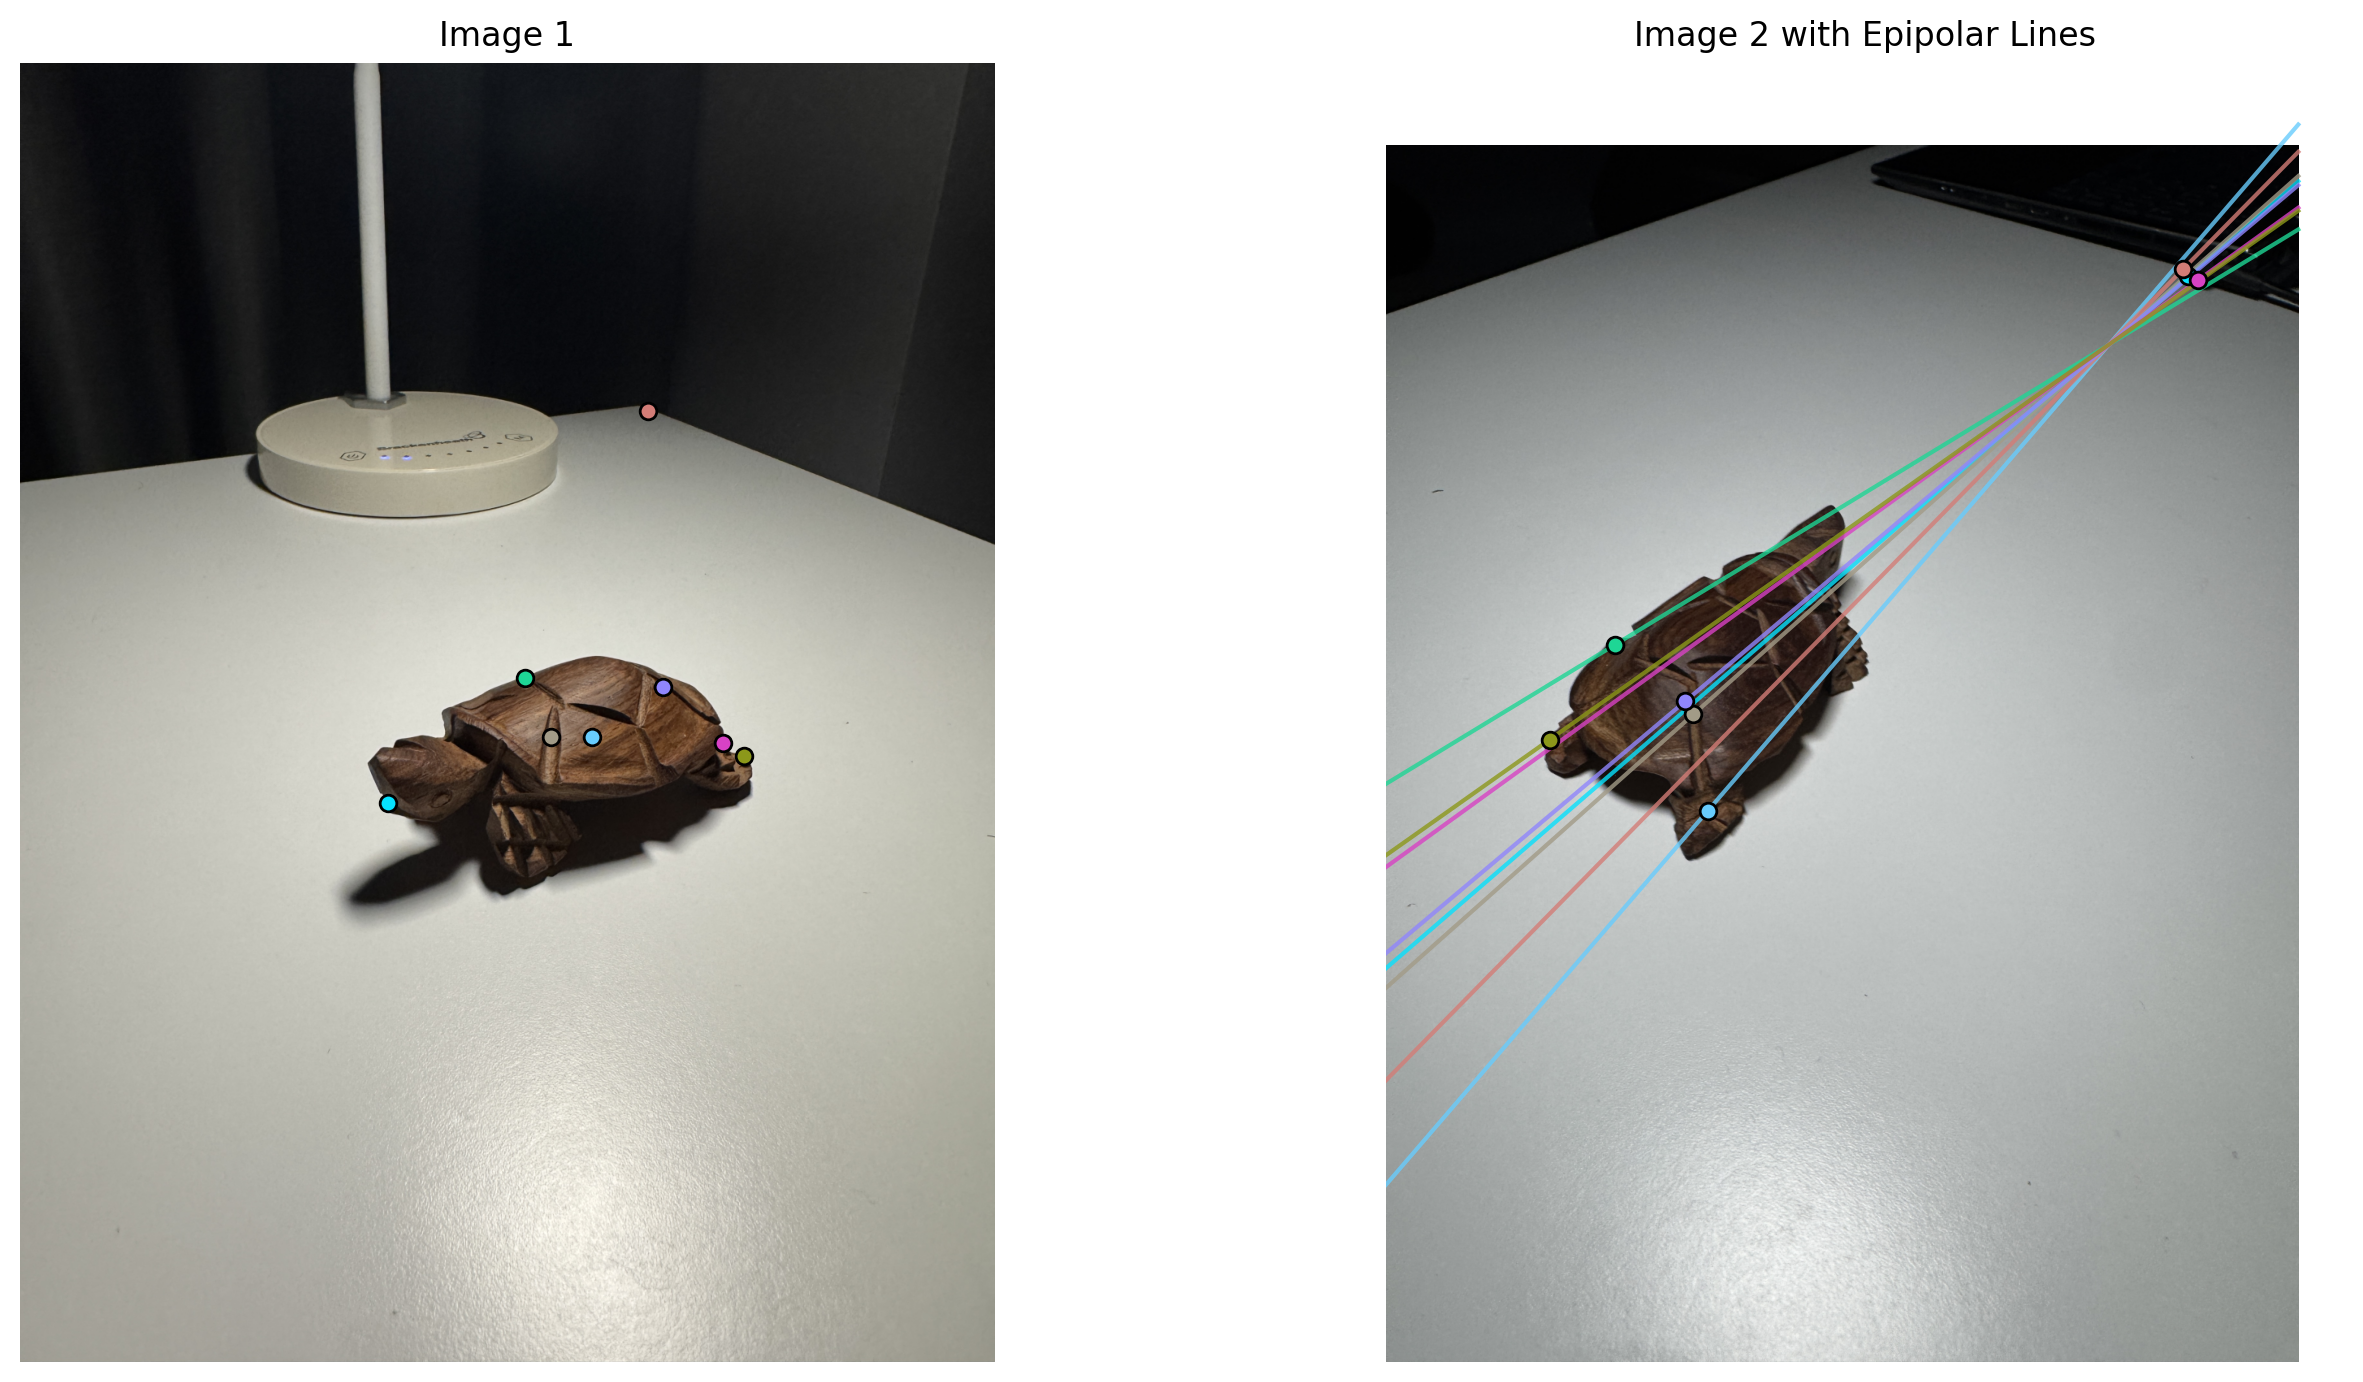
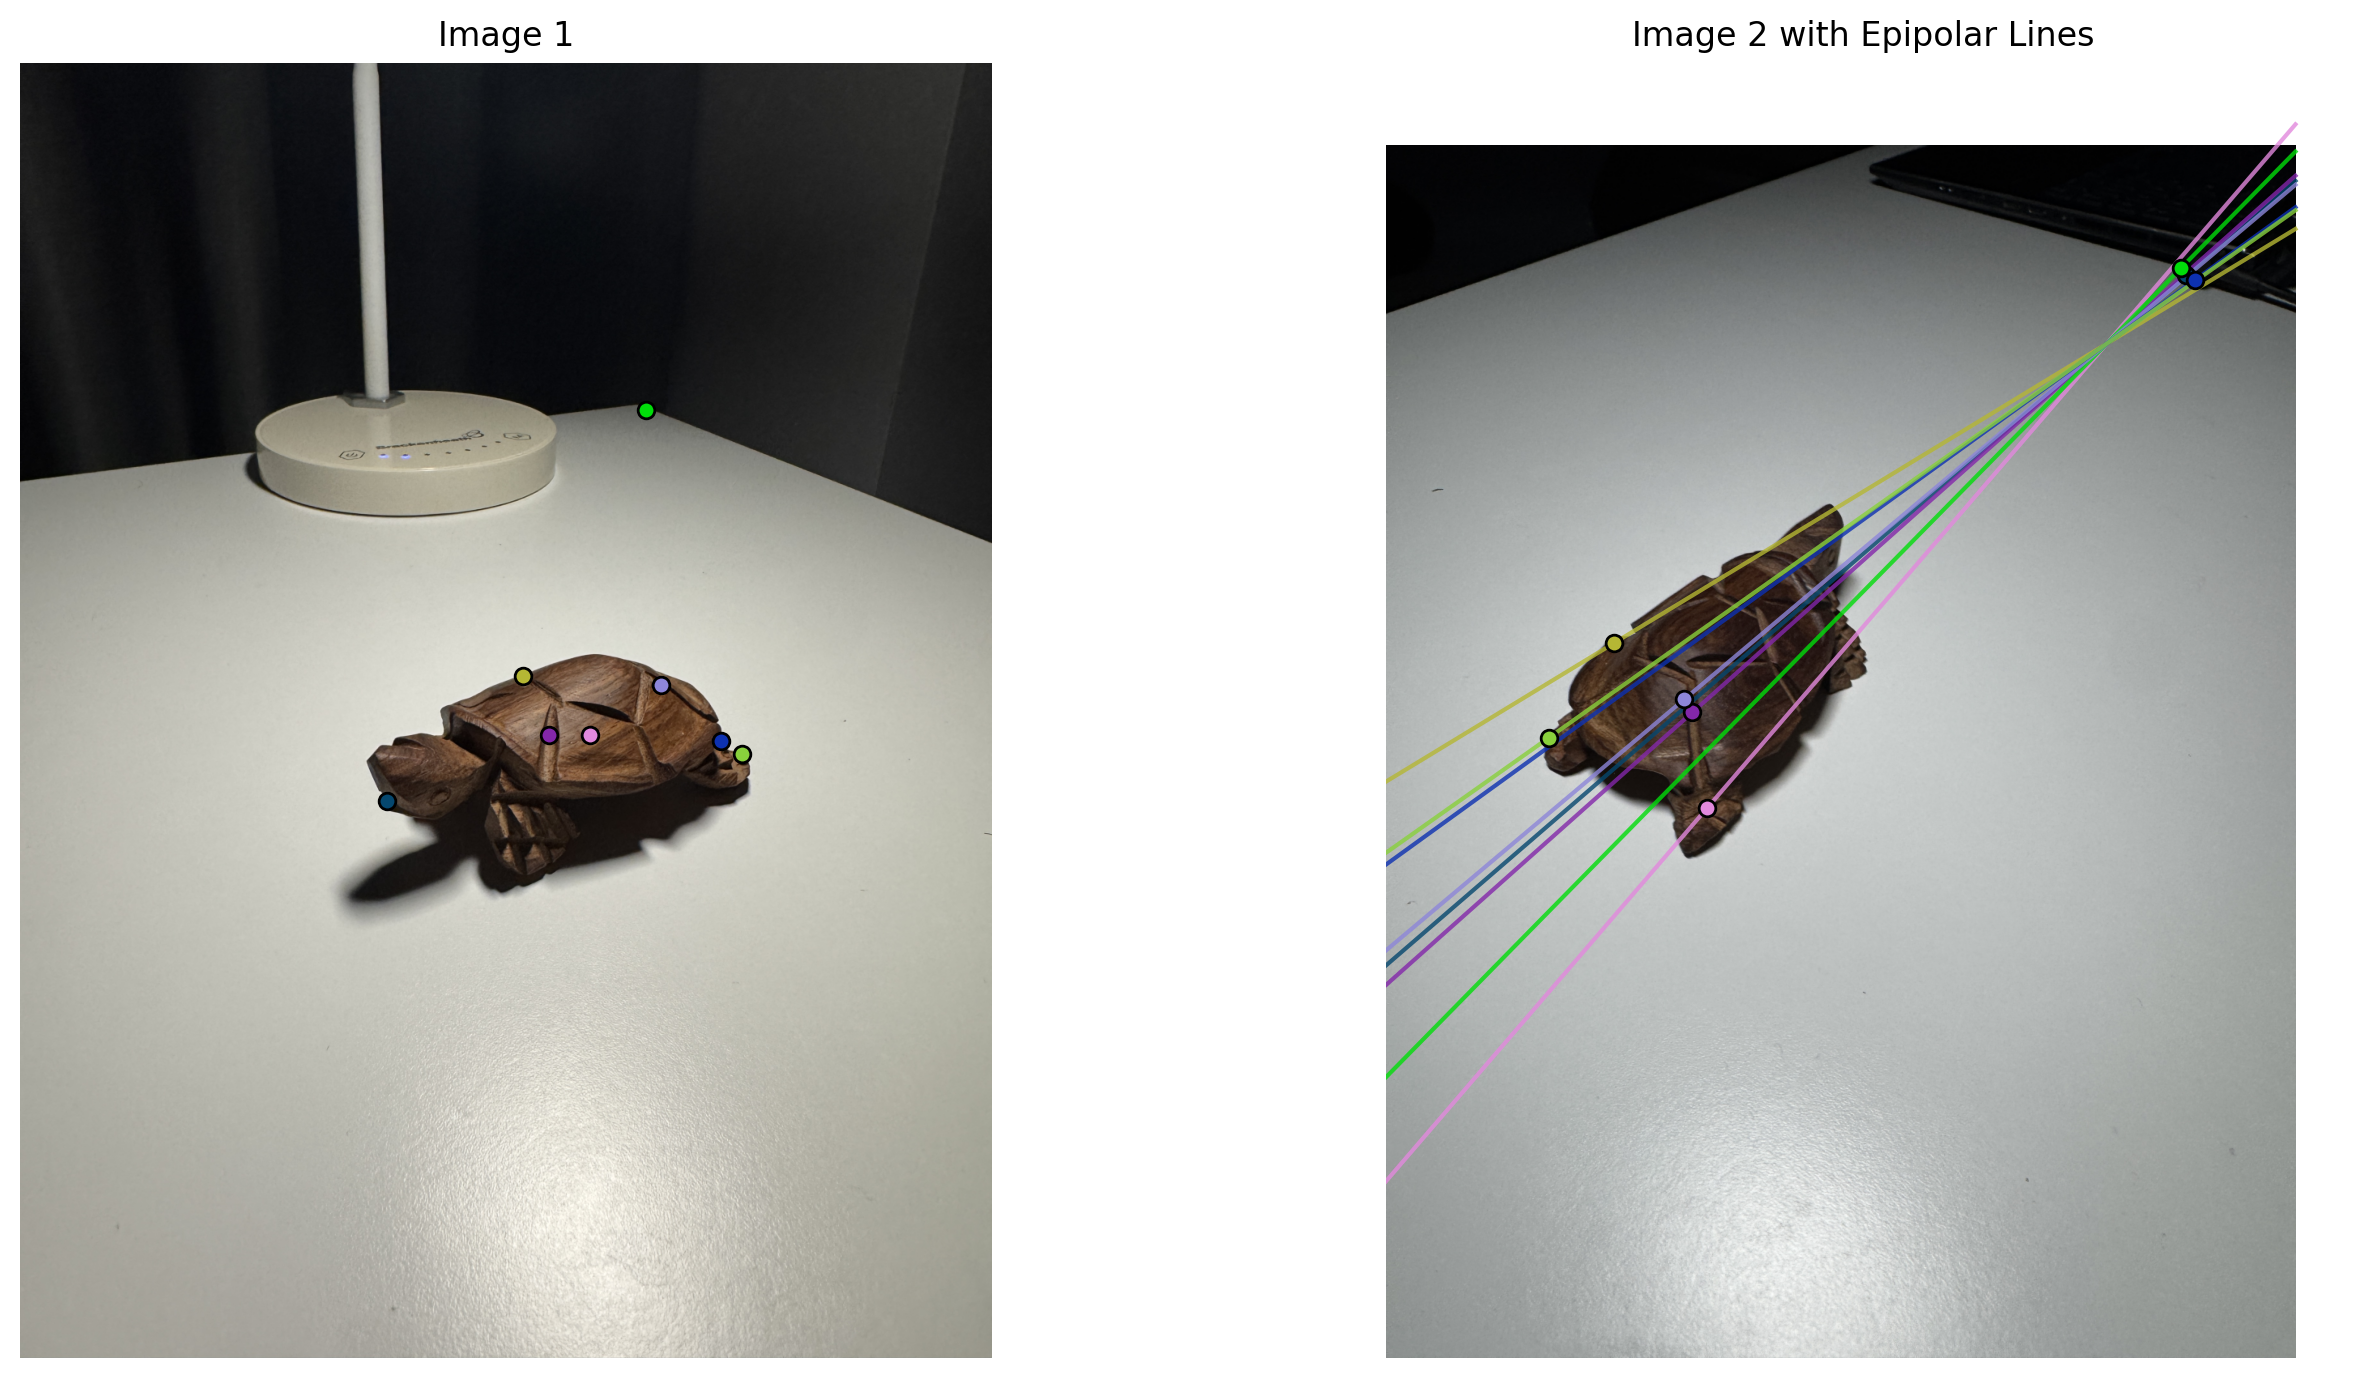
update counting of matches in raw_descriptor_matches

diff --git a/week2/sfm_utils.py b/week2/sfm_utils.py
@@ -247,8 +247,10 @@ def count_raw_matches(desc1: np.ndarray, desc2: np.ndarray) -> int:
     A simple definition is len(raw_descriptor_matches(desc1, desc2)). This
     gives a useful denominator for comparing raw and filtered matching.
     """
-    
-    return len(raw_descriptor_matches(desc1, desc2))
+    for match in raw_descriptor_matches(desc1, desc2):
+        count += 1 if match[1] is not None else 0
+        
+    return count
 
 
 def matched_keypoint_coords(
@@ -499,7 +501,7 @@ def analyse_feature_pair(
     img2_name = features2.path.name
     
     raw_matches = raw_descriptor_matches(features1.descriptors, features2.descriptors)
-    raw_matches_count = len(raw_matches)
+    raw_matches_count = count_raw_matches(features1.descriptors, features2.descriptors)
     filtered_matches = match_descriptors(features1.descriptors, features2.descriptors, ratio)
     
     pts1, pts2 = matched_keypoint_coords(features1.keypoints, features2.keypoints, filtered_matches)